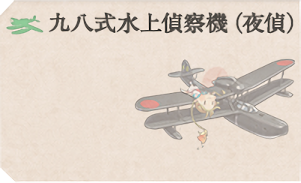
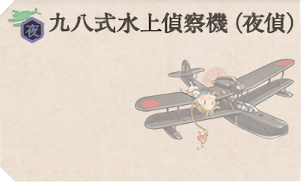
Update to v3.19.3
-== Raw Text Patching ==-
-- Updated --
- Ship data
- Equipment data
- Quest data
- Music data

-- Removed --
- Spring 2022 Event data

-== Texture Patching ==-
-- Updated --
- General equipment assets

-- Changed --
- Minor tweaks to some main menu assets
- Minor change to the information menu

-- Removed --
- Spring 2022 Event assets

Changed region(s): [[0.0, 0.0546, 0.1495, 0.2459]]

diff --git a/README.md b/README.md
@@ -31,7 +31,7 @@ Modifiying game assets is technically against the Terms of Service, so use at yo
 
 ##### What is currently translated
 A more detailed summary is in the works, but everything that is essential to comfortable gameplay,\
-or that is very often seen in the game, is translated.
+or that is very often seen in the game, is translated. This even includes event flavor text.
 
 ## Special Thanks
 
@@ -77,13 +77,16 @@ check **only** "Images and files in cache", and delete.*\
 If some assets still aren't patched, repeat the process until satisfaction. You're done!
 
 ##### Updating
-Go into your English Patch folder, and double-click on "quick_updater_v0.3.0".\
-Let the program do its thing, then close it. If you're using Chrome, you're done!\
-If you're not, be sure to clear the cache in the browser you're using to play KanColle!
+Go into your English Patch folder, and double-click on "quick_updater_v0.4.1".\
+Let the program do its thing. Once done, you have the option to proceed to a program\
+that will automatically clear your browser cache, so you don't have to do it manually.\
+Clearing the browser cache is necessary to delete old or untranslated assets that are still stored.\
+If you're not on Windows, you'll have to update the patch by reinstalling it or by using Git.
 
 If you're using Git, pull from the repo, then open KCCacheProxy\
 (right click in the task bar tray, bottom right), click on "Reload mod data",\
-and clear your browser cache (see above for the Chrome cache clear instructions).
+and clear your browser cache (see above for the Chrome cache clear instructions).\
+You can also use the browser cache clearer provided in the English Patch folder if you're on Windows!
 
 ##### Additional note
 *To disable raw text patching (ship names etc.), open the "EN-patch.mod.json" file\
